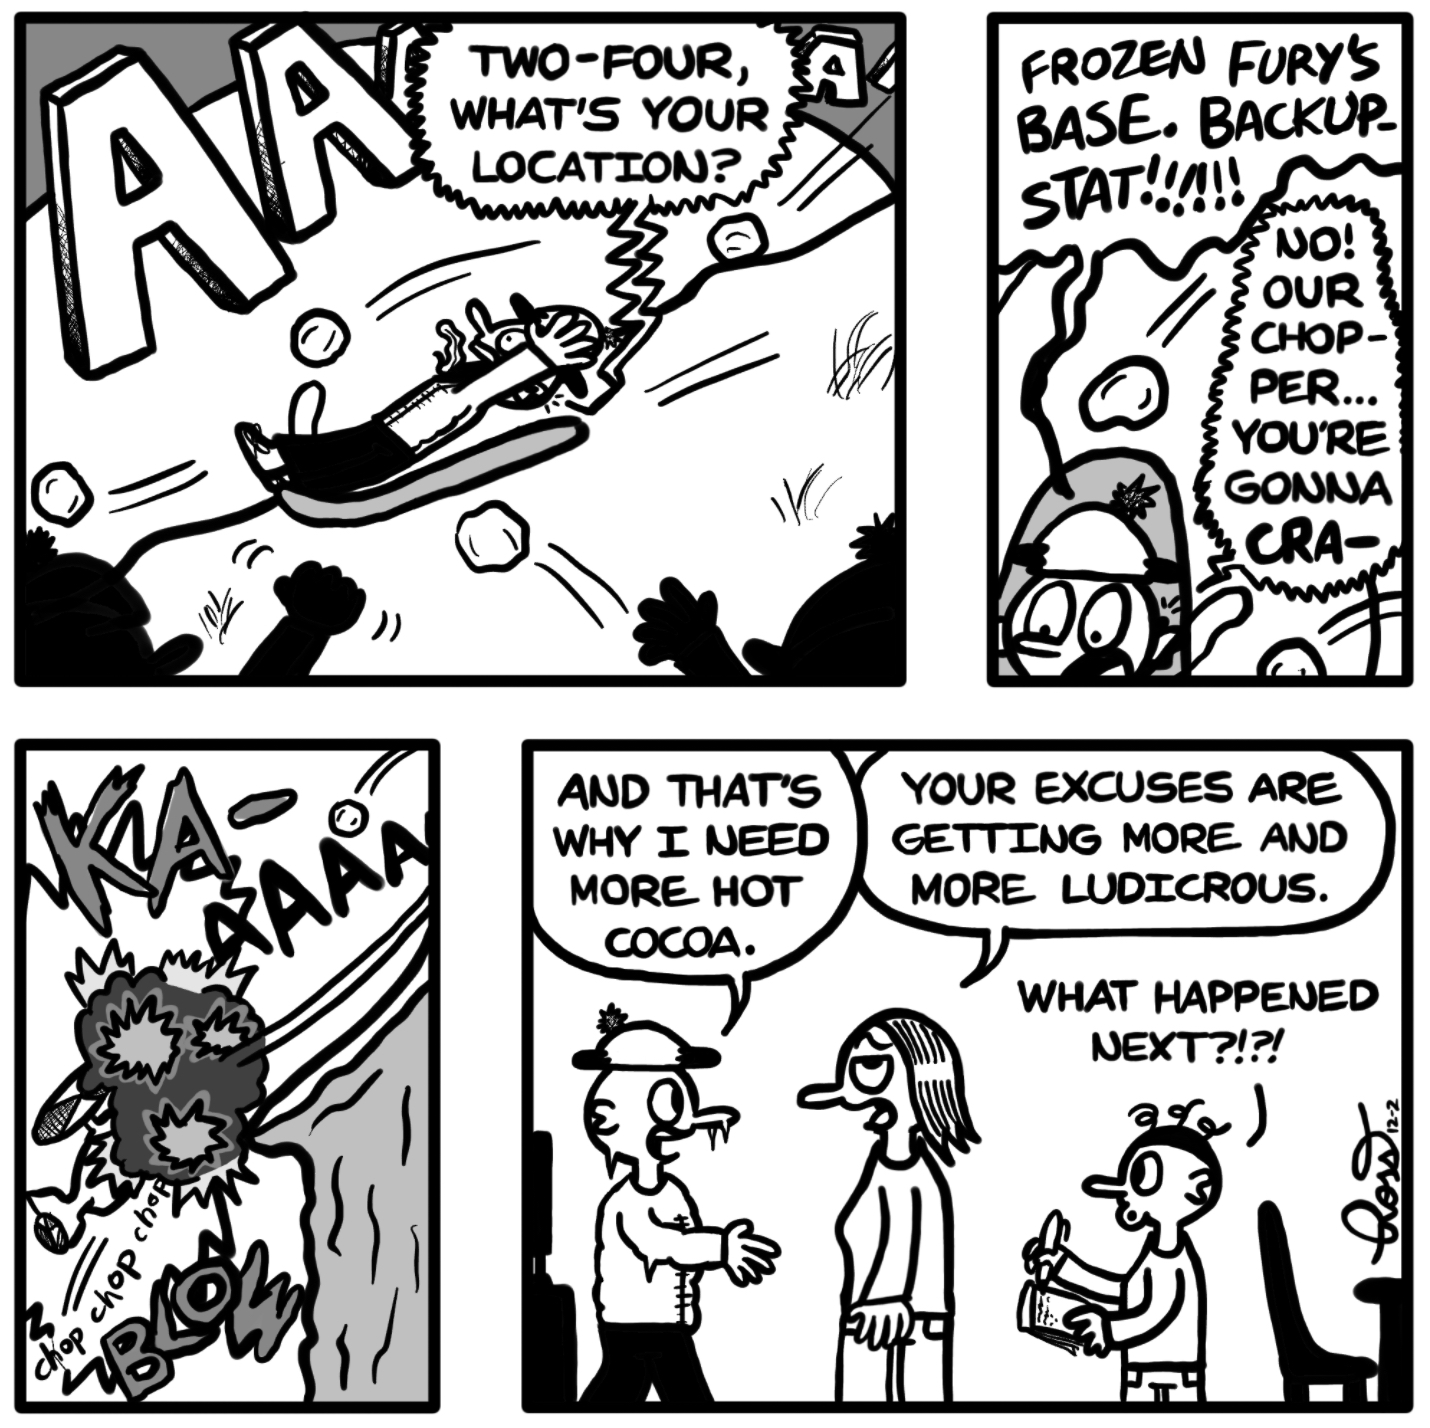
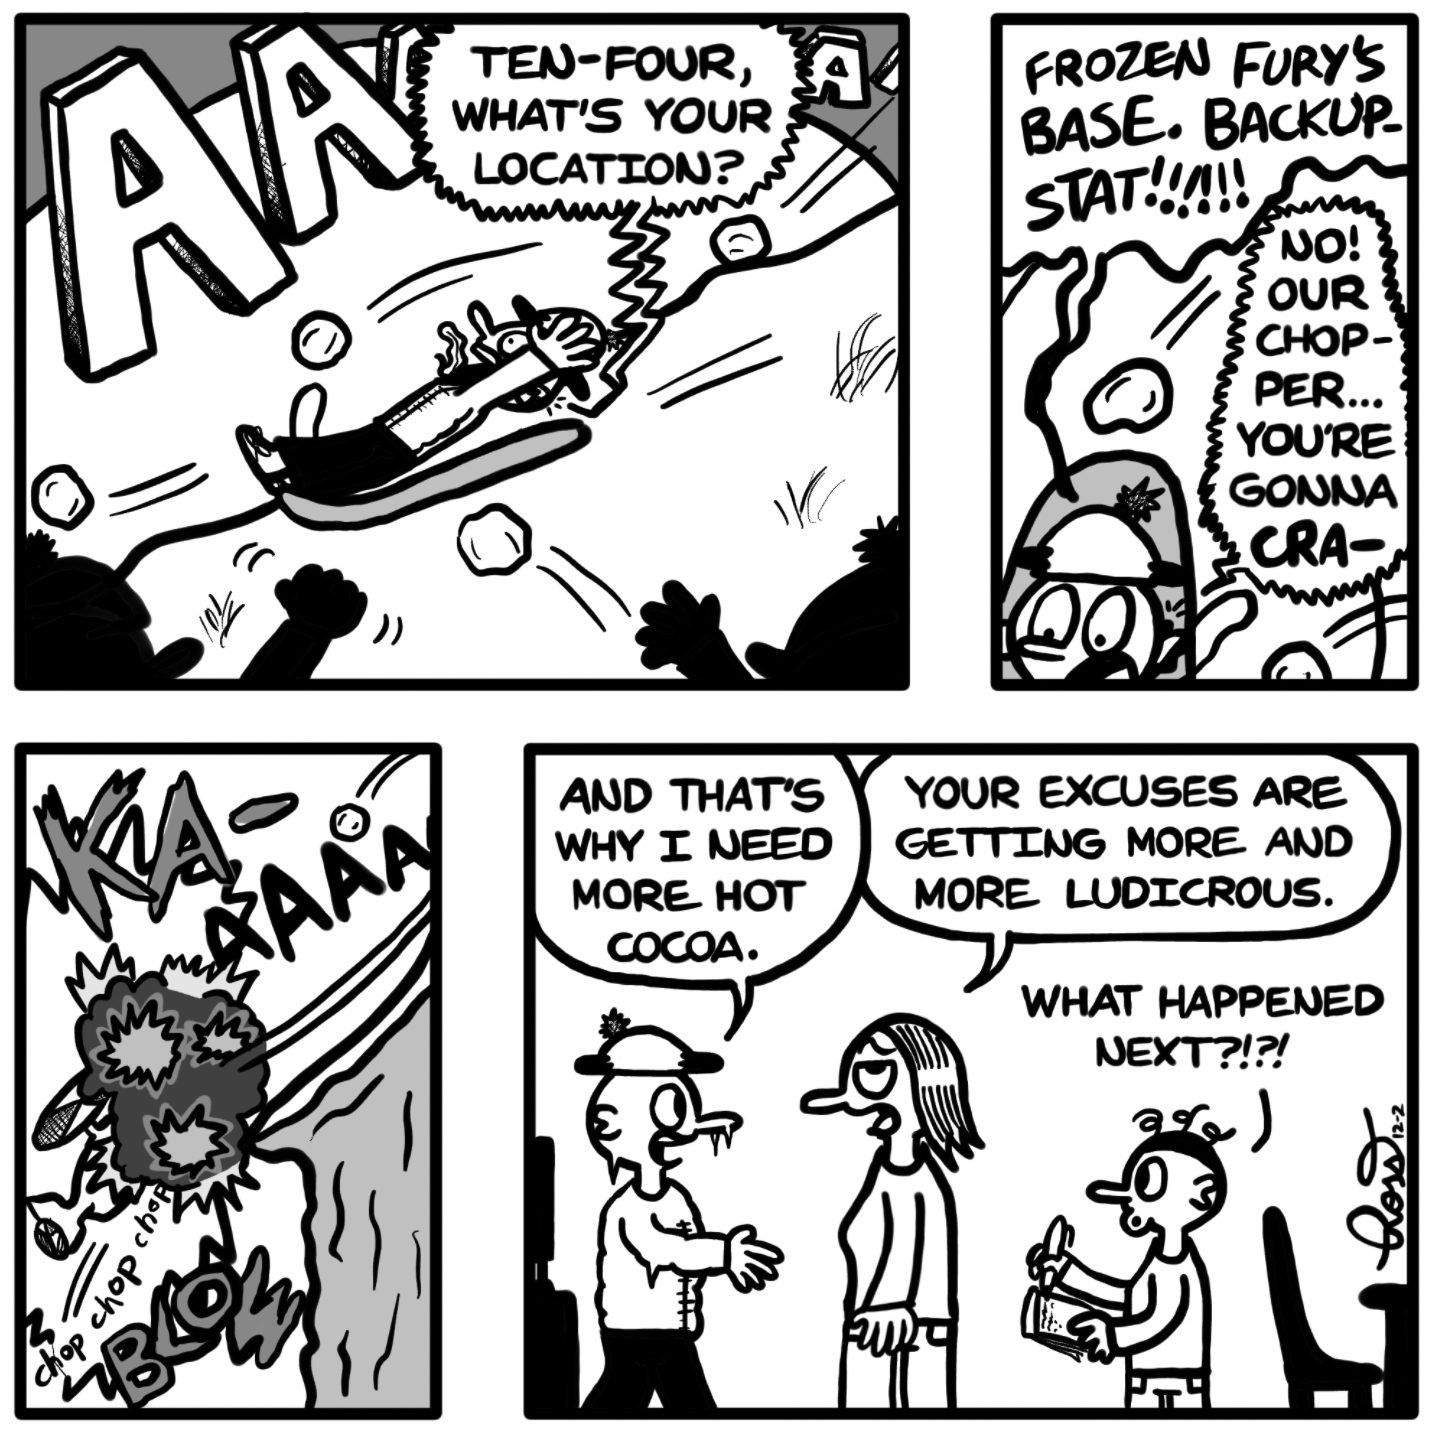
added 289th comic and fixed error in 285th comic

diff --git a/comics/289.md b/comics/289.md
@@ -1,0 +1,4 @@
+---
+layout: comic
+---
+# #289: Weight a Minute
